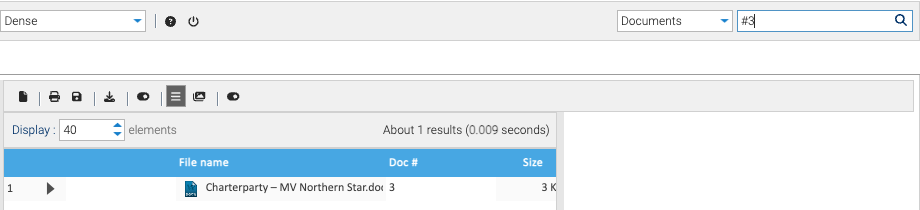
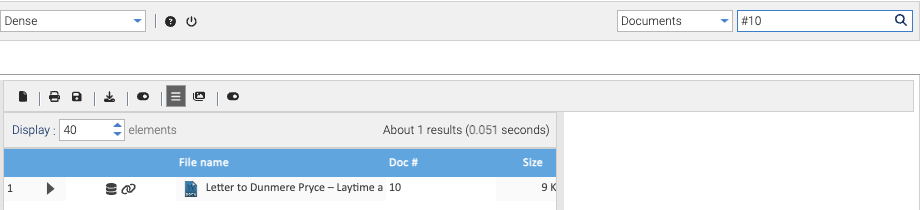
Retake the web app's screenshots from the demo firm
The nine web screenshots showed the smoke stack's Harbour Shipping, Smoke template and
Alex Morgan. They now come from the demo stack, in headless Chrome at a true 1280 x 800
in London time: Priya Nair in 1001.1's Correspondence, the scope picker, a #10 lookup,
the Brightwell lease draft's markup, a letter's Ext. Properties (now with Comments),
and Sam Okafor's New Matter dialog for 1004.2, Healdan Settings and the Templates
Store. Each one's alt text, and the examples that named the old data, say what it
shows now.

diff --git a/site/content/admin/workspace-templates/index.md b/site/content/admin/workspace-templates/index.md
@@ -6,17 +6,17 @@ weight: 3
 A **workspace template** is the folder a new matter is copied from, so matters of the same kind start the same way.
 A template is an ordinary folder directly inside the **Templates** Store, which only admins can see.
 
-![The folder tree's Templates Store, holding the template Smoke template with its Documents folder](templates-store.png)
+![The folder tree's Templates Store, holding the templates Firm, Litigation and Transactional, with Litigation open at its six folders and its two search folders, My Recent Docs Here and Emails in This Matter](templates-store.png)
 
 ## Building a Template
 
 Create a folder in the Templates Store, then build it with the usual tools:
 
-- **folders and subfolders**, such as Documents, Secured Documents and Emails;
+- **folders and subfolders**, such as Correspondence, Drafts and Emails;
 - **permissions** on each folder, naming groups such as Everyone. A folder can be more restricted than the one
-  above it, never less;
+  above it, never less, such as a Privileged folder only partners can read;
 - **properties** set on folders, such as an Invoices folder that sets Class to Financial;
-- **search folders**, such as Recent Work. Right-click a folder and choose **New search folder…**. See
+- **search folders**, such as My Recent Docs Here. Right-click a folder and choose **New search folder…**. See
   [Search Folders](../../user/finding-documents/search-folders/).
 
 Templates hold no documents.

diff --git a/site/content/admin/clients-and-matters/index.md b/site/content/admin/clients-and-matters/index.md
@@ -19,7 +19,7 @@ A client has a number, a positive whole number, and a name. Client numbers are u
 
 Right-click the Store the matter belongs in and choose **New Matter…**.
 
-![The New Matter dialog, filled in: client 1001 – Harbour Shipping Ltd, number 2, name Fuel Quality Claim, a description, Store Smoke, owner admin and template Smoke template](new-matter.png)
+![The New Matter dialog, filled in: client 1004 – Marsh Lane Community Trust, number 2, name Community Hall Lease, a description, Store Client Work, owner hashcombe and template Transactional](new-matter.png)
 
 | Field | What to put |
 |---|---|
@@ -32,7 +32,7 @@ Right-click the Store the matter belongs in and choose **New Matter…**.
 
 When you click **Create**, Healdan:
 
-1. copies the template into the Store as the matter's workspace, named like `1001.2 – Fuel Quality Claim`;
+1. copies the template into the Store as the matter's workspace, named like `1004.2 – Community Hall Lease`;
 2. stamps the workspace with its client and matter, which pass down to everything in it;
 3. gives the owner every permission on the workspace.
 

diff --git a/site/content/user/working-with-matters/properties/index.md b/site/content/user/working-with-matters/properties/index.md
@@ -7,10 +7,7 @@ Every document and folder carries the same set of properties, the **Healdan prof
 its **Ext. Properties** tab to see them. Its **Properties** tab shows the doc #, which can't be edited, and the Date
 filed.
 
-<!-- This screenshot predates the Comments property, which now comes after Subclass. Retake it during the owner's
-acceptance of M3 (its plan, Task 21). -->
-
-![The Ext. Properties tab: the Healdan profile, with Client 1001 and Matter 1 read-only, then Author, Typist, Class Docs, Subclass, Legacy doc # and the email fields](ext-properties.png)
+![The Ext. Properties tab: the Healdan profile, with Client 1001 and Matter 1 read-only, then Author treeve, Typist pnair, Class Correspondence, Subclass Letter, Comments, Legacy doc # and the email fields](ext-properties.png)
 
 ## The Properties
 

diff --git a/site/content/user/documents/previews/index.md b/site/content/user/documents/previews/index.md
@@ -23,7 +23,7 @@ The layout is recognisably the document, but not always identical to Office's.
 
 A preview shows the markup a document still carries, so you can catch a draft that isn't clean before it goes out.
 
-![A Word document's preview: an inserted phrase underlined, a deleted one struck through, and a note icon after a commented sentence](markup.png)
+![A draft lease's preview: a deleted rent struck through beside the inserted one, underlined, a note icon after the commented clause, an inserted clause underlined, and a deleted phrase struck through before its replacement](markup.png)
 
 - **Tracked changes** show as redlines, even if the document was saved with markup hidden. This works for `docx`,
   `docm`, `dotx` and `dotm` files. Older formats show markup only if they were saved showing it.

diff --git a/site/content/admin/healdan-settings/index.md b/site/content/admin/healdan-settings/index.md
@@ -6,7 +6,7 @@ weight: 7
 Healdan's own settings are under **Administration → Healdan → Settings**. Click **Save** after changing them.
 Clients are saved from their own window, without Save.
 
-![The Healdan settings panel: matter labels, numbering, default Class, the Recent Matters window, the next doc #, the two device sign-in limits, API origins allowed (CORS), and the client list with Add client and Edit](healdan-settings.png)
+![The Healdan settings panel: matter labels, numbering, default Class, the Recent Matters window, the next doc #, the two device sign-in limits, API origins allowed (CORS), and the client list with Add client and Edit, holding seven clients from 998 Ashcombe Reeve LLP to 1006 Oliver and Grace Pemberton](healdan-settings.png)
 
 | Setting | What it does |
 |---|---|

diff --git a/site/content/user/finding-documents/finding-by-doc-number/index.md b/site/content/user/finding-documents/finding-by-doc-number/index.md
@@ -18,7 +18,7 @@ With the search box's scope on **Documents**, type the doc # with a `#` in front
 | `#1234.2` or `#1234v2` | version 2 as it stands: its latest snapshot |
 | `#1234.2.1`, `#1234v2.1` or `#1234 v2.1` | exactly snapshot 2.1 |
 
-![The search box with #3 typed in, and the result list showing one document: Charterparty – MV Northern Star.docx, doc # 3](doc-number-lookup.png)
+![The search box with #10 typed in, and the result list showing one document: Letter to Dunmere Pryce – Laytime and Demurrage.docx, doc # 10](doc-number-lookup.png)
 
 A space after the `#` is fine, and so is one before the `v`. `#1234 v2.1` is the doc ID: the form the title bar
 shows in LibreOffice (`Lease agreement #1234 v2.1`) and the [doc ID footer](../../office/doc-id-footer/) prints, so you

diff --git a/site/content/user/getting-started/getting-around/index.md b/site/content/user/getting-started/getting-around/index.md
@@ -3,7 +3,7 @@ title: Getting Around
 weight: 2
 ---
 
-![The Documents screen: the left pane's folder tree is open at a matter's Documents folder, the list shows three documents with their doc #s, and the details below show the selected document's properties](documents-screen.png)
+![The Documents screen: the left pane's folder tree is open at matter 1001.1's Correspondence folder, the list shows four documents with their doc #s, the details below show the selected letter's properties, and its preview is on the right](documents-screen.png)
 
 ## The Top Bar
 
